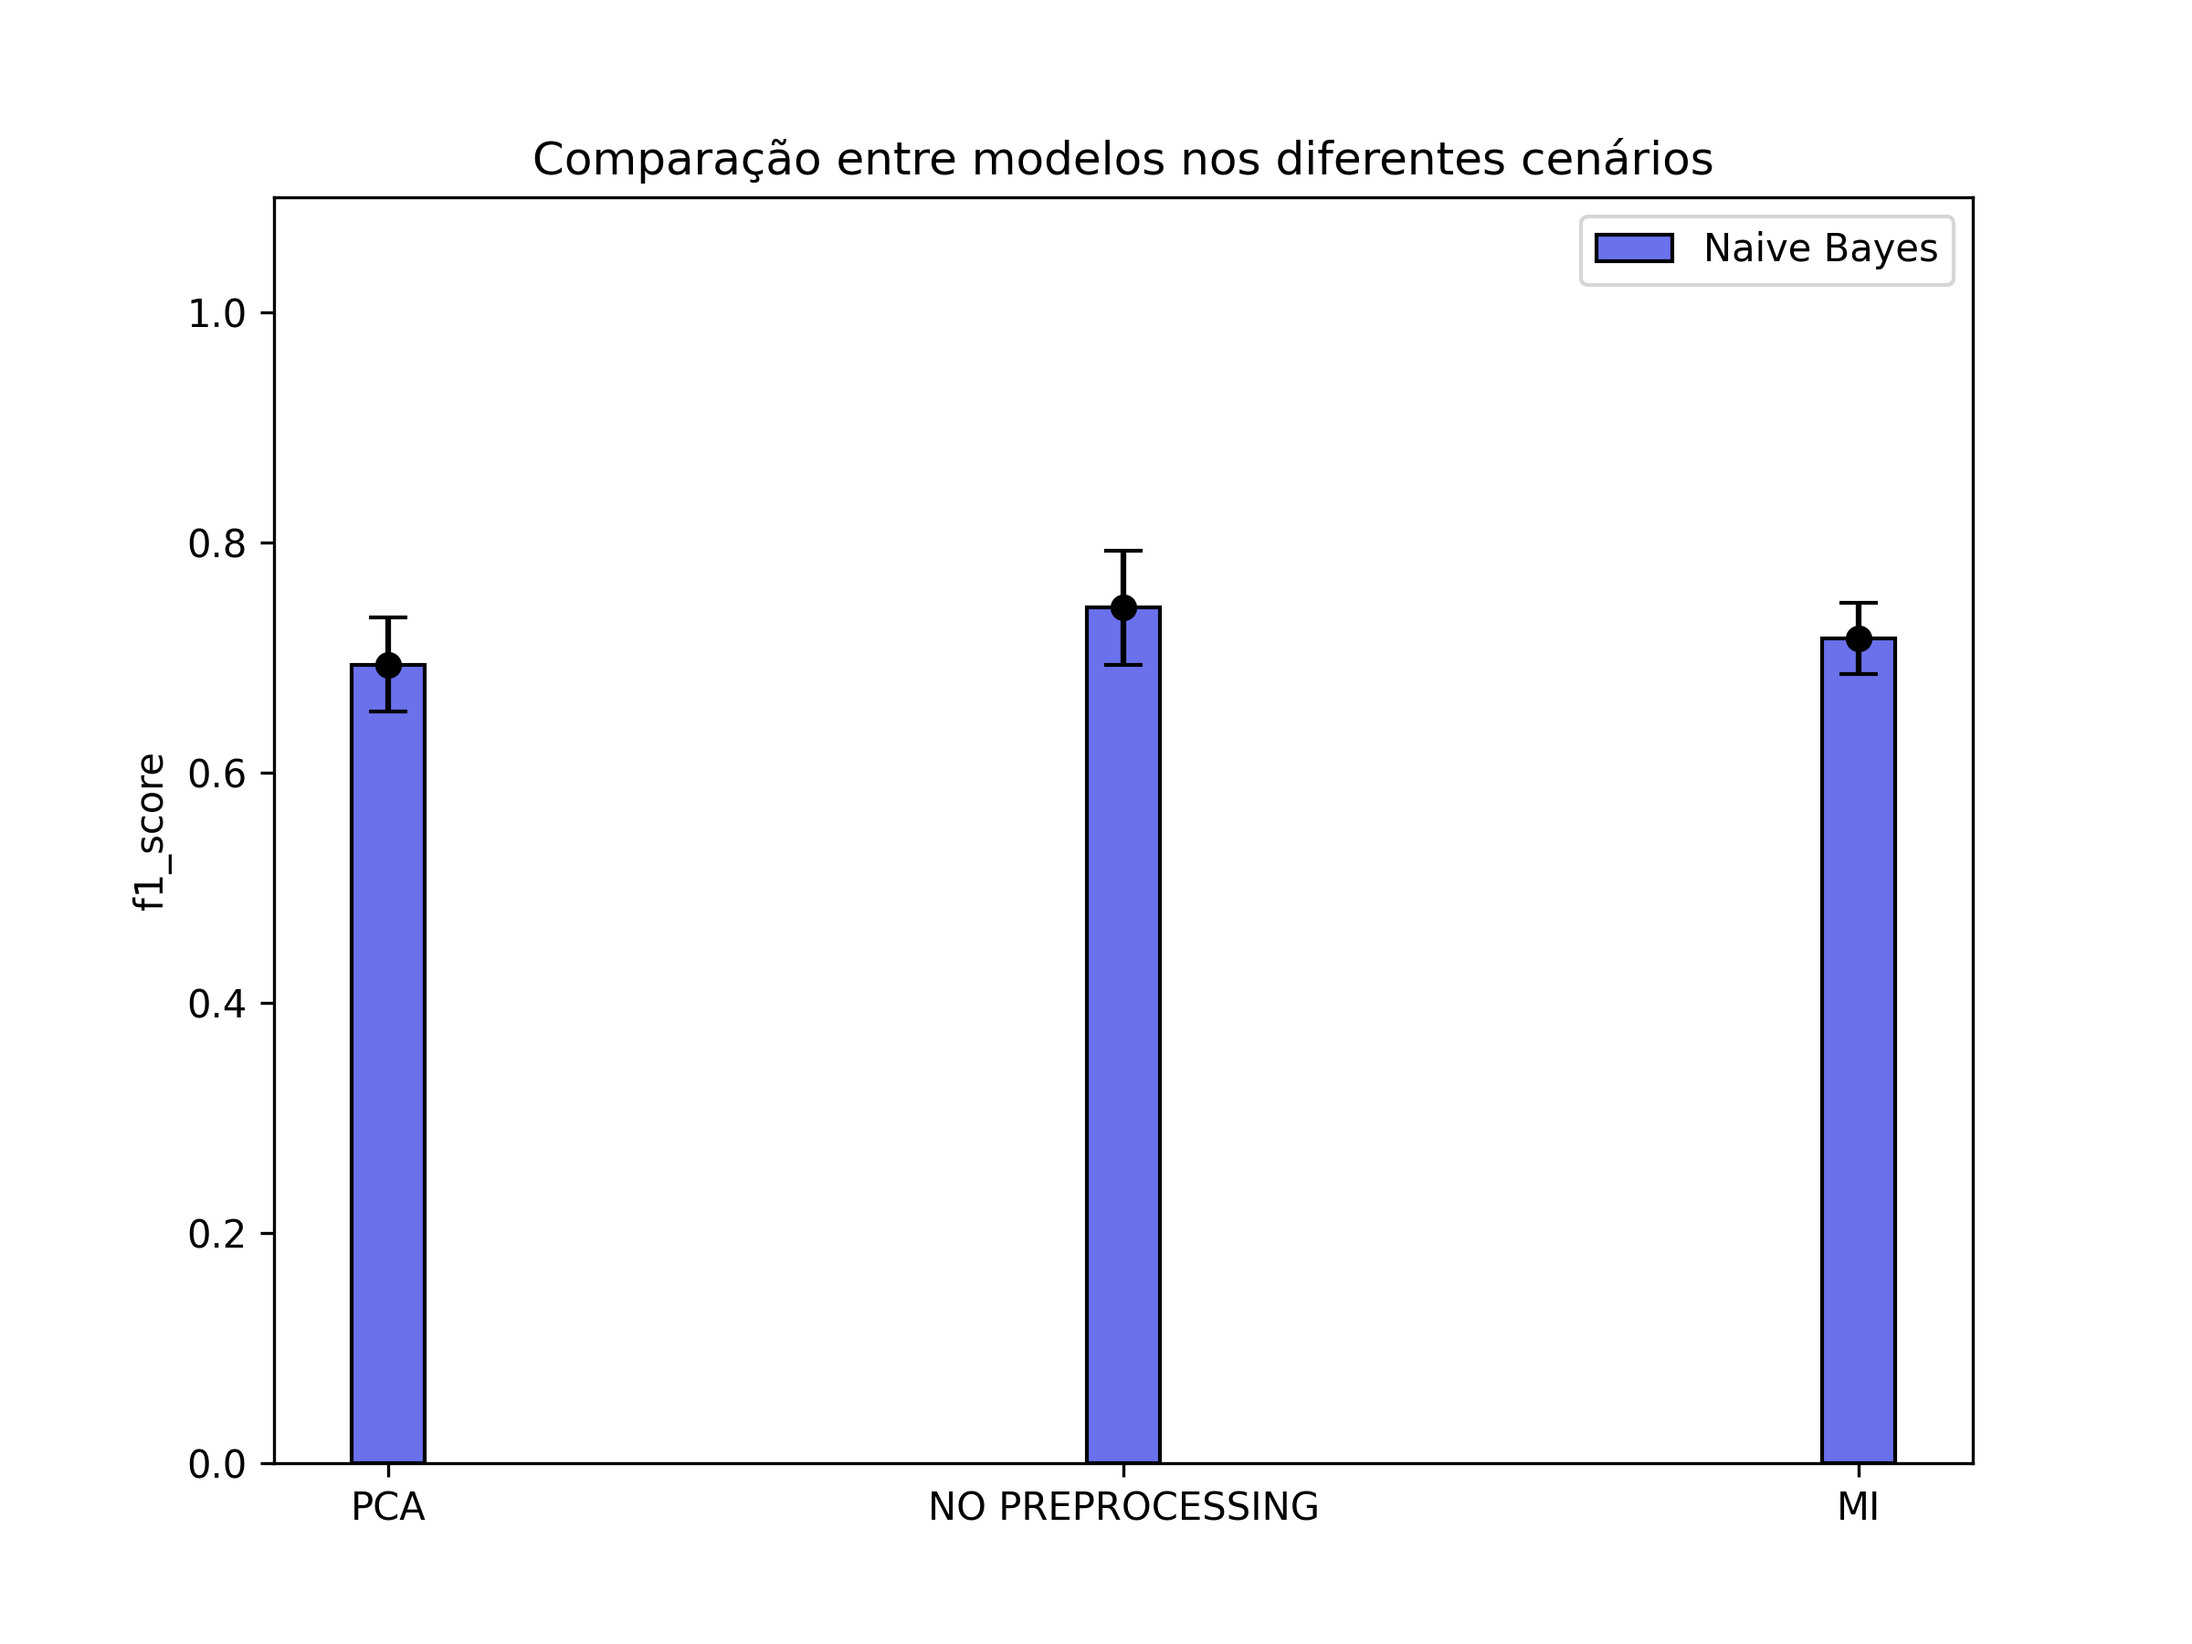
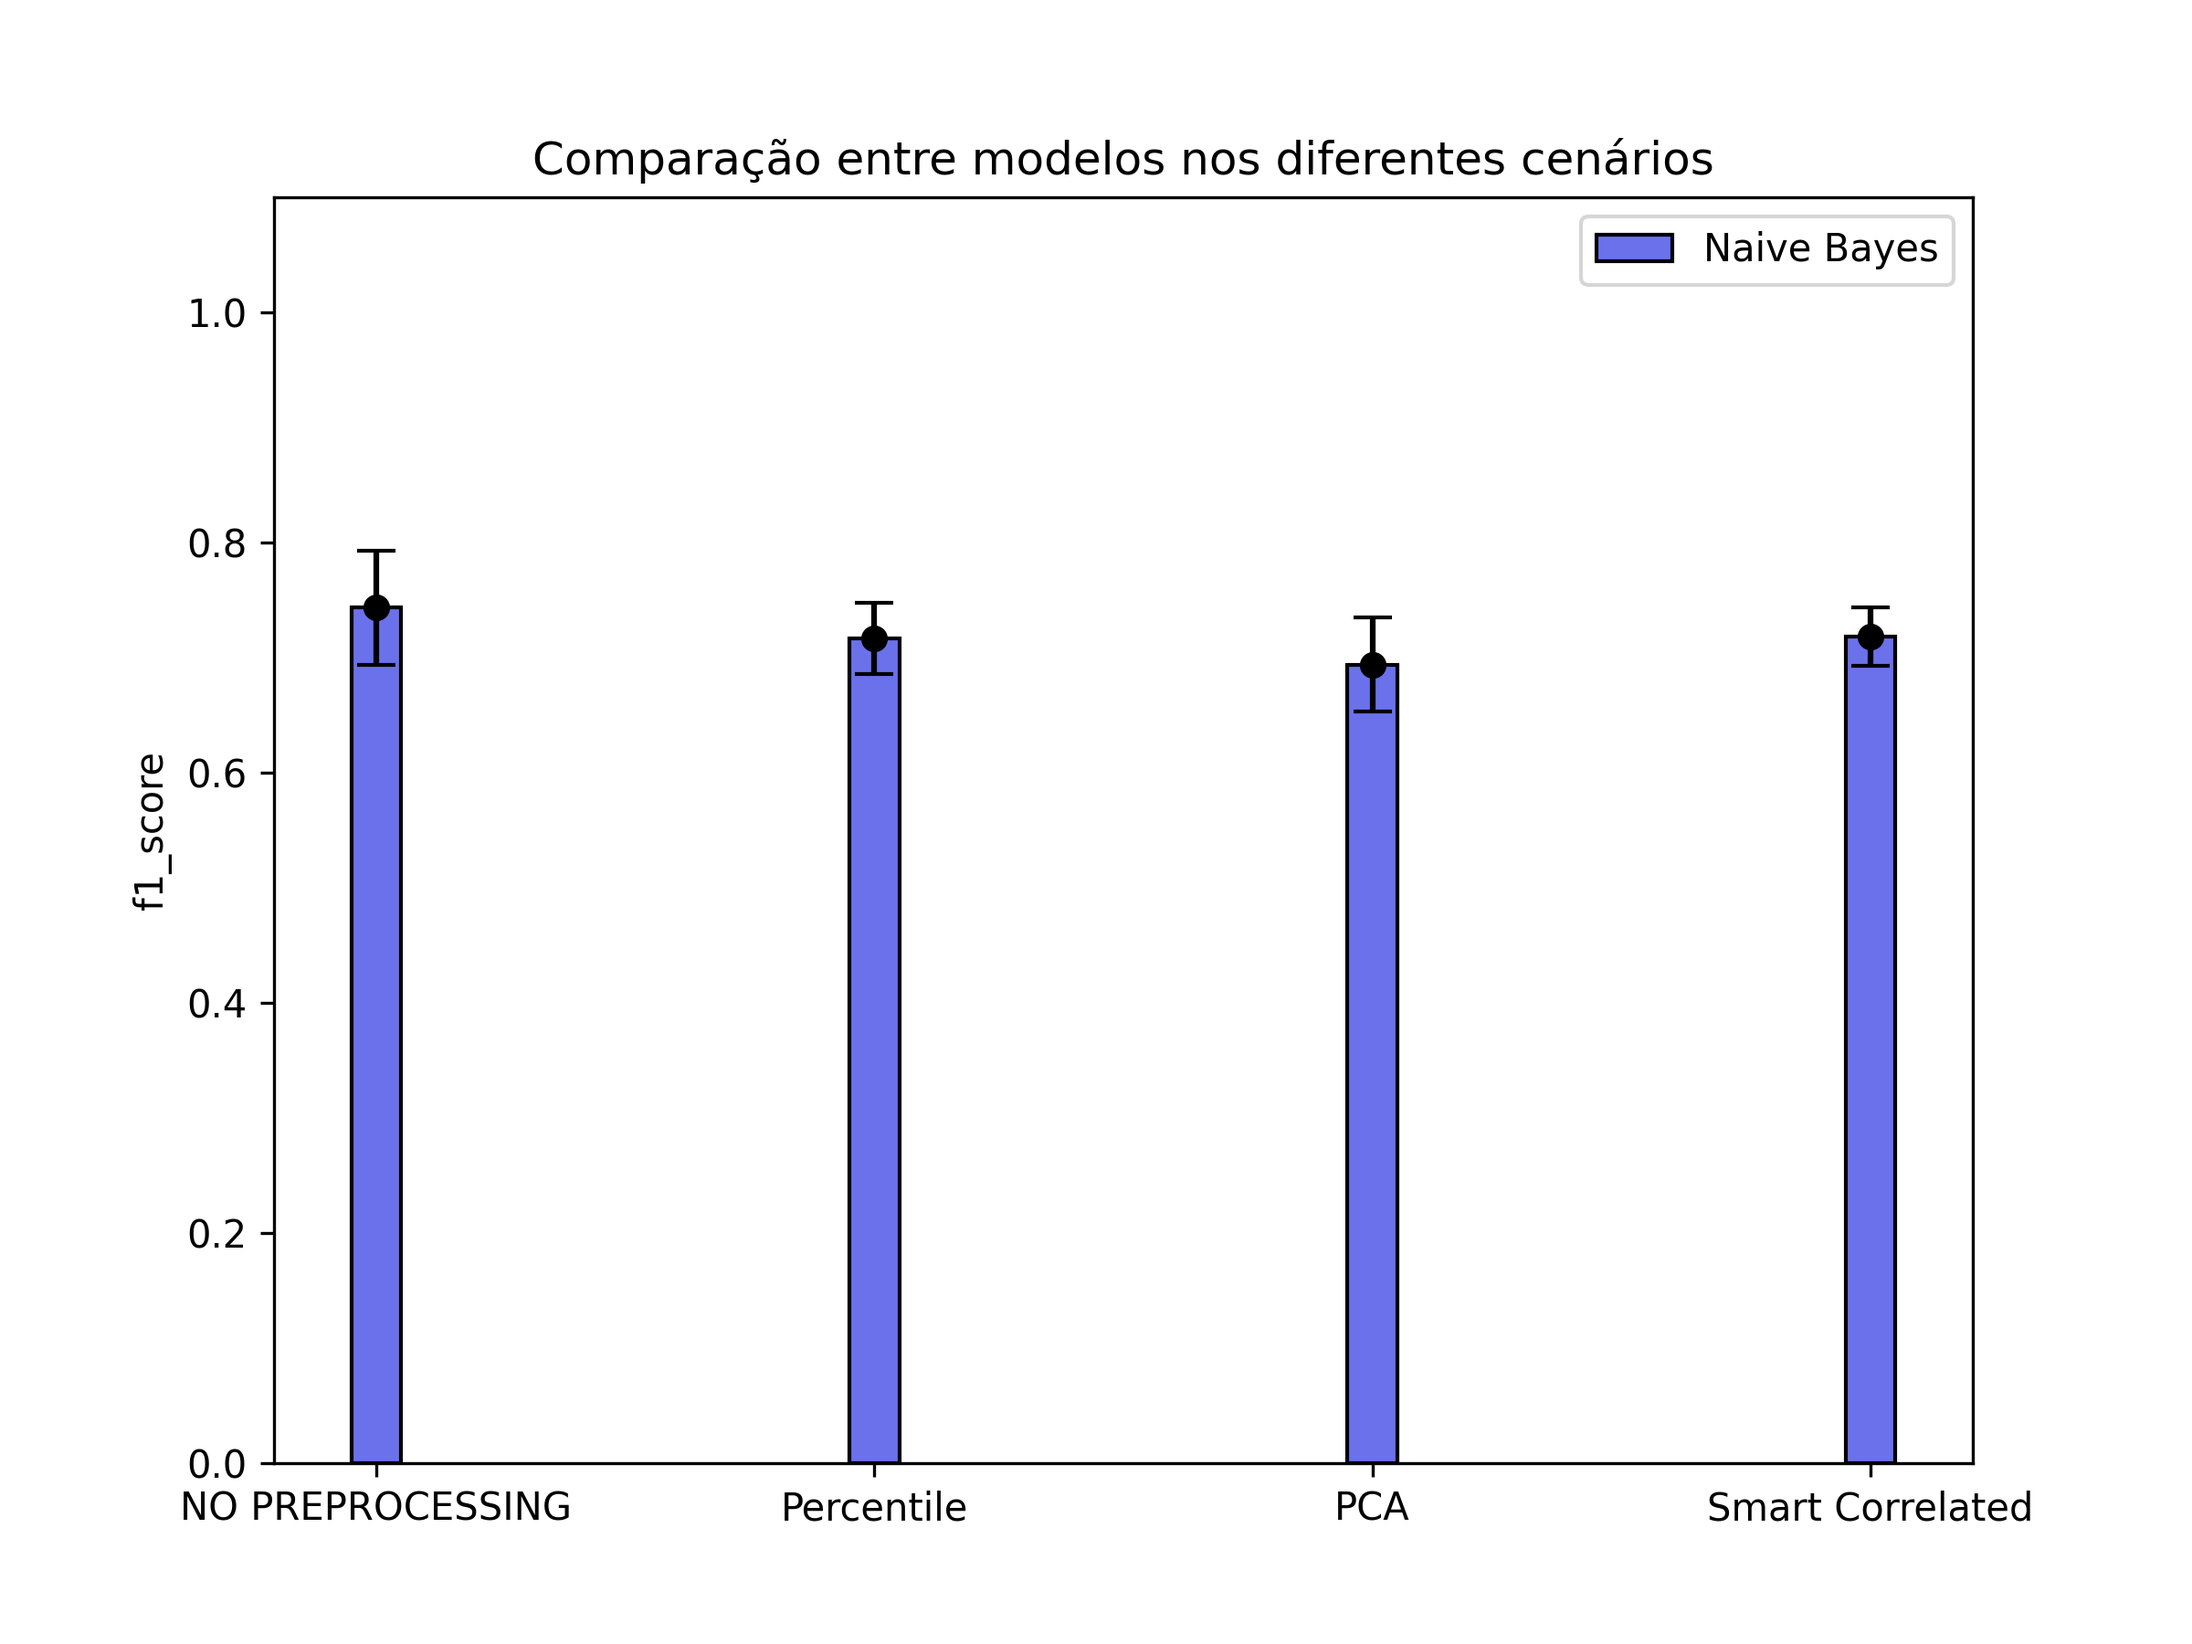
add Smart Correlated

Changed region(s): [[0.3438, 0.3422, 0.6562, 0.9333], [0.0938, 0.3422, 0.25, 0.9333], [0.7812, 0.3733, 0.9375, 0.9333]]

diff --git a/src/train/scenarios.py b/src/train/scenarios.py
@@ -1,6 +1,7 @@
 from typing import Dict
 
 from imblearn.pipeline import Pipeline
+from feature_engine.selection import SmartCorrelatedSelection
 from sklearn.decomposition import PCA
 from sklearn.feature_selection import SelectPercentile, mutual_info_classif
 from sklearn.preprocessing import MinMaxScaler
@@ -21,28 +22,35 @@ class Scenario:
 class PCAScenario(Scenario):
     name = "PCA"
     is_balanced = False
-    feature_selection = None
+    feature_selection = "PCA"
     metrics = METRICS
     preprocessing_steps = [
         ("scaler", MinMaxScaler()),
         ("pca", PCA(n_components=5)),
     ]
 
-
 class MIScenario(Scenario):
-    name = "MI"
+    name = "Percentile"
     is_balanced = False
-    feature_selection = "Mutual Information"
+    feature_selection = "Select Percentile"
     metrics = METRICS
     preprocessing_steps = [
         ("fs", SelectPercentile(score_func=mutual_info_classif, percentile=80)),
     ]
 
+class SmartCorrelated(Scenario):
+    name = "Smart Correlated"
+    is_balanced = False
+    feature_selection = "Smart Correlated"
+    metrics = METRICS
+    preprocessing_steps = [
+        ("fs", SmartCorrelatedSelection(selection_method="variance")),
+    ]    
 
 class NoPrepScenario(Scenario):
     name = "NO PREPROCESSING"
     is_balanced = False
-    feature_selection = None
+    feature_selection = "NO PREPROCESSING"
     metrics = METRICS
     preprocessing_steps = []
 
@@ -51,4 +59,5 @@ SCENARIOS = [
     NoPrepScenario(),
     PCAScenario(),
     MIScenario(),
+    SmartCorrelated(),
 ]

diff --git a/notebooks/3. Metrics - Naive Bayes.py b/notebooks/3. Metrics - Naive Bayes.py
@@ -1,0 +1,12 @@
+# # Metrics - Naive Bayes
+
+import pandas as pd
+
+METRICS_PATH: str = "../data/results/metrics.csv"
+
+df_metrics = pd.read_csv(METRICS_PATH)
+
+df_metrics = df_metrics[['feature_selection', 'accuracy', 'recall', 'precision', 'f1_score']]
+df_metrics
+
+
